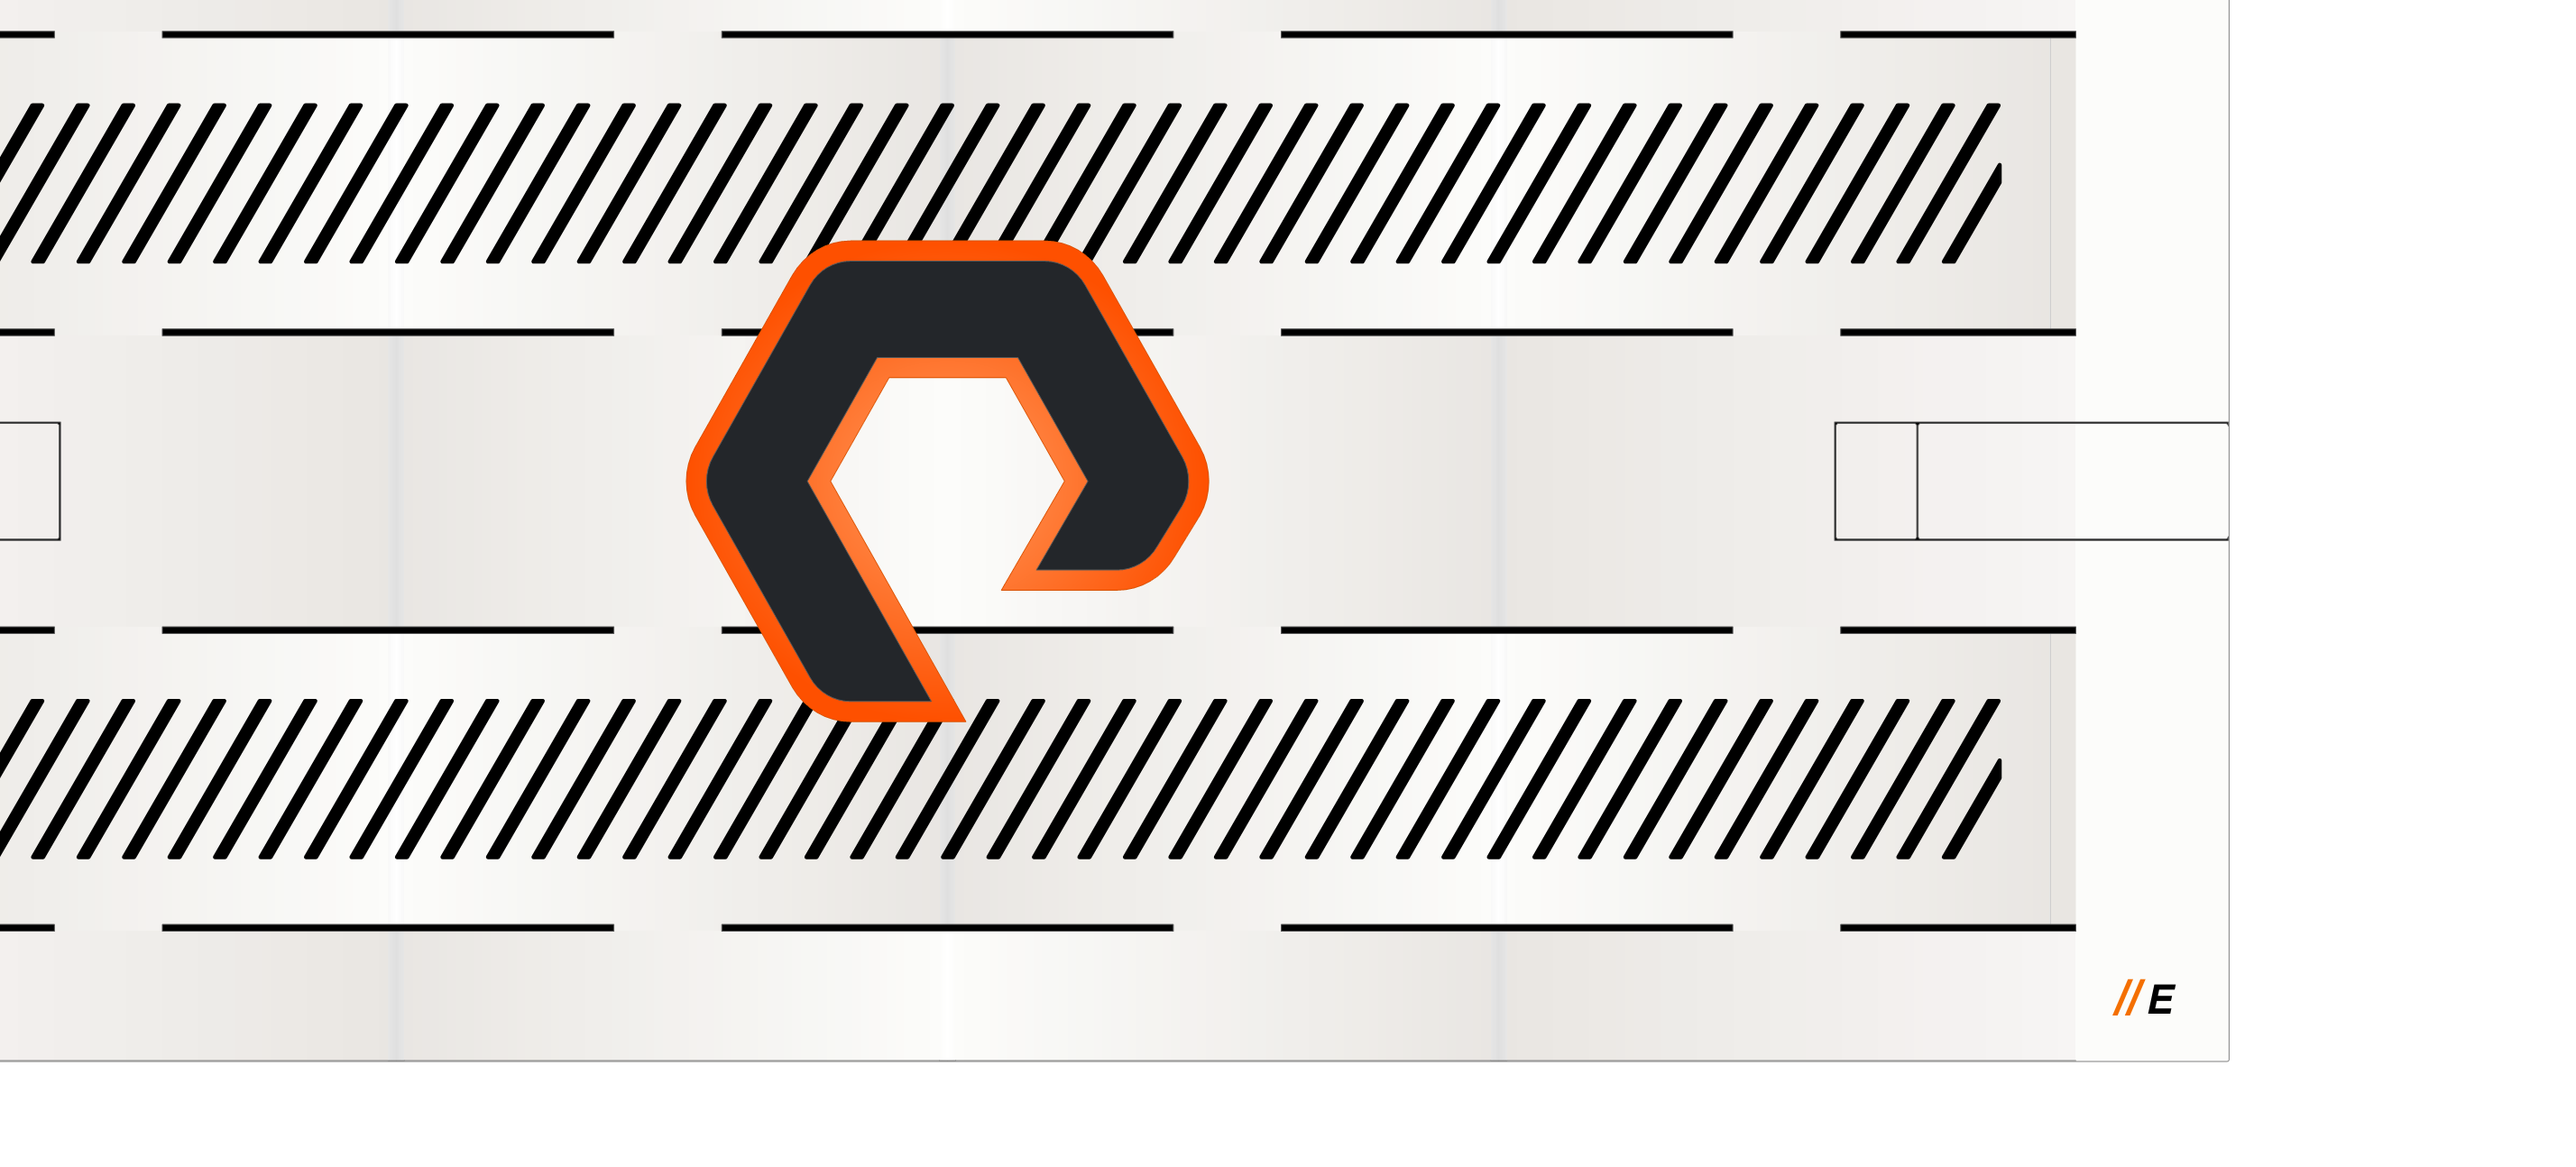
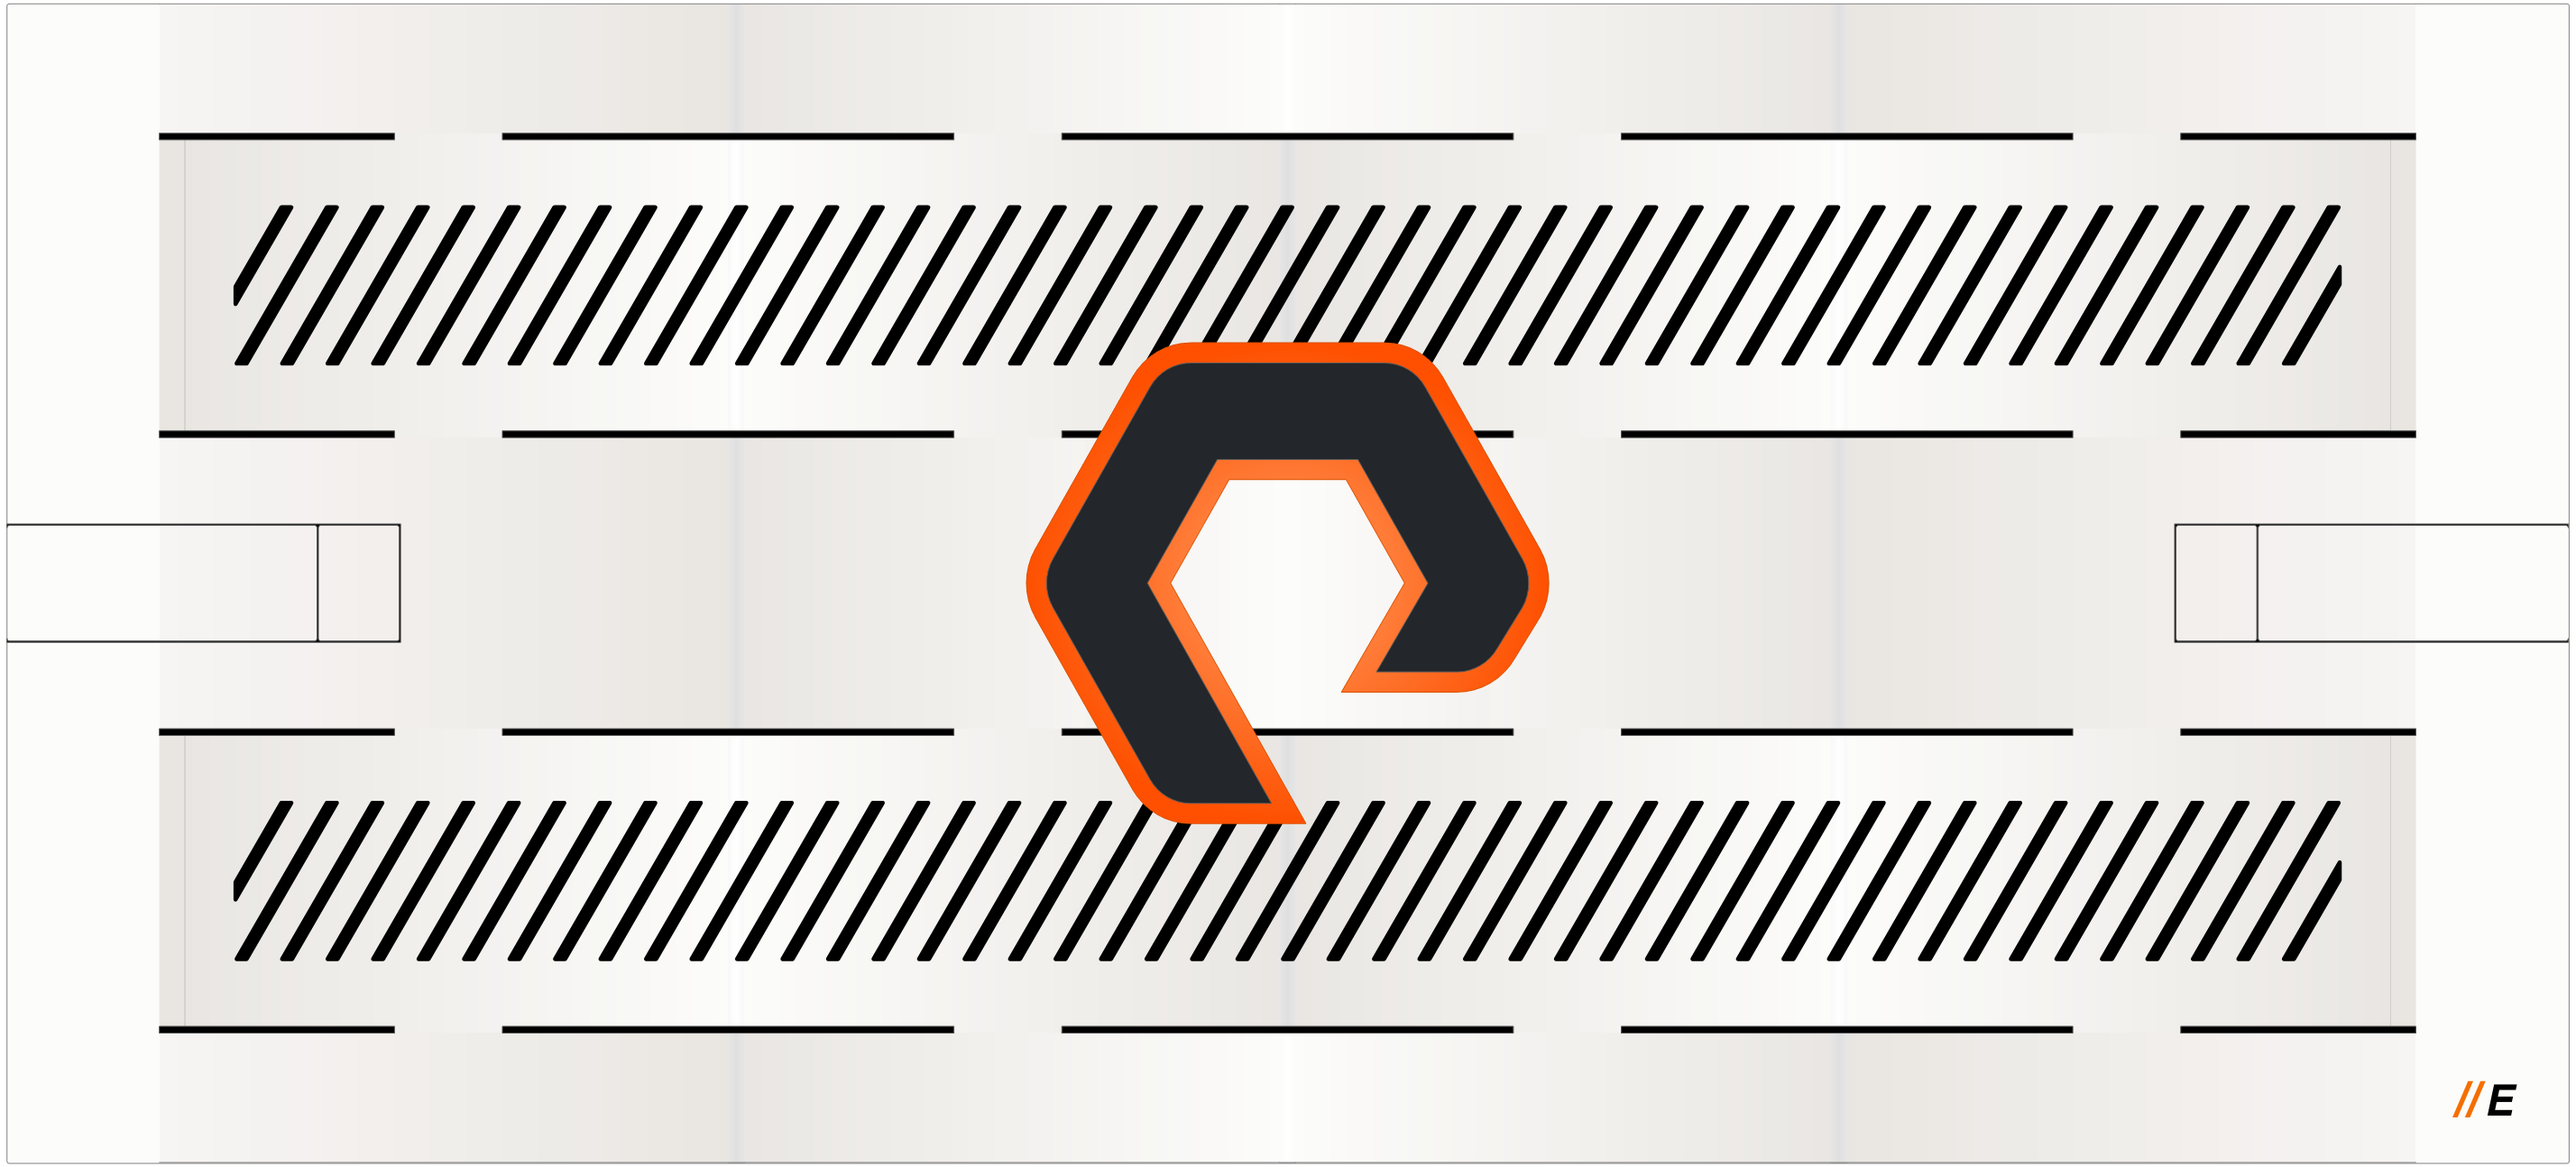
fixed a couple issues with the back image.

diff --git a/ui/purerackdiagram.js b/ui/purerackdiagram.js
@@ -11,7 +11,7 @@ const customSchema = jsyaml.DEFAULT_SCHEMA.extend([pythonTupleType]);
 $(function () {
   console.log("ready!");
 
-  fetch("../purerackdiagram/config.yaml")
+  fetch("config.yaml")
   .then((response) => response.text())
   .then((yamlText) => {
 
@@ -218,6 +218,7 @@ $(function () {
   var fb_option_efm = build_select('#fb_option_efm', FB_OPTIONS.efm);
   var fb_option_ports = build_select('#fb_option_ports', FB_OPTIONS.ports);
   var fb_option_xfm_face = build_select('#fb_option_xfm_face', FB_OPTIONS.xfm_face);
+  var fb_option_bezel = build_select('#fb_option_bezel', FB_OPTIONS.bezel);
 
   var fbs_option_model = build_select('#fbs_option_model', FBS_OPTIONS.model);
   var fbs_option_dfm_size = build_select('#fbs_option_dfm_size', FBS_OPTIONS.dfm_size);
@@ -228,6 +229,7 @@ $(function () {
   var fbs_option_blades = build_input('#fbs_option_blades', FBS_OPTIONS.blades);
   var fbs_option_ports = build_select('#fbs_option_ports', FBS_OPTIONS.ports);
   var fbs_option_xfm_face = build_select('#fbs_option_xfm_face', FBS_OPTIONS.xfm_face);
+  var fbs_option_bezel = build_select('#fbs_option_bezel', FBS_OPTIONS.bezel);
 
 
 
@@ -280,6 +282,7 @@ $(function () {
     url += "&blades=" + fb_option_blades.val();
     url += "&efm=" + fb_option_efm.val();
     url += "&xfm_face=" + fb_option_xfm_face.val();
+    url += "&bezel=" + fb_option_bezel.val();
 
     var ports_val = fb_option_ports.val();
     if (ports_val){
@@ -301,6 +304,7 @@ $(function () {
     url += "&no_of_drives_per_blade=" + fbs_option_dfm_count.val();
     url += "&drive_size=" + fbs_option_dfm_size.val();
     url += "&xfm_face=" + fbs_option_xfm_face.val();
+    url += "&bezel=" + fbs_option_bezel.val();
  
     
     fbs_option_dfm_size
@@ -393,9 +397,9 @@ $(function () {
 
   $("#fa_option_face > select").change(function () {
     if (fa_option_face.val() == 'front') {
-      $('#fm_label').show();
-      $('#dp_label').show();
-      $('#bezel').show();
+      $('#fa_fm_label').show();
+      $('#fa_dp_label').show();
+      $('#fa_bezel').show();
 
       $('#mezz').hide();
       $('#ports').hide();
@@ -405,9 +409,9 @@ $(function () {
       $('#pci_dropdowns').hide();
     }
     else {
-      $('#fm_label').hide();
-      $('#dp_label').hide();
-      $('#bezel').hide();
+      $('#fa_fm_label').hide();
+      $('#fa_dp_label').hide();
+      $('#fa_bezel').hide();
       
       $('#protocol').show();
       $('#addoncards').show();

diff --git a/ui/index.html b/ui/index.html
@@ -96,14 +96,14 @@ Select the options, then click the Display button at the bottom to load the imag
             <br/>
           </div>
 
-          <div class="row" id="fm_label">
+          <div class="row" id="fa_fm_label">
             <div class="col-xs-4 col-sm-4 option_label">fm_label:</div>
             <div class="col-xs-8 col-sm-8"><span data-tooltip="add a label for each FlashModule" id="fa_option_fm_label"></span></div>
             <br/>
             <br/>
           </div>
 
-          <div class="row" id="dp_label">
+          <div class="row" id="fa_dp_label">
             <div class="col-xs-4 col-sm-4 option_label">dp_label:</div>
             <div class="col-xs-8 col-sm-8"><span data-tooltip="add a label for each data pack" id="fa_option_dp_label"></span></div>
             <br/>
@@ -111,7 +111,7 @@ Select the options, then click the Display button at the bottom to load the imag
           </div>
 
           
-          <div class="row" id="bezel">
+          <div class="row" id="fa_bezel">
             <div class="col-xs-4 col-sm-4 option_label">bezel:</div>
             <div class="col-xs-8 col-sm-8"><span data-tooltip="show bezel" id="fa_option_bezel"></span></div>
             <br/>
@@ -267,7 +267,6 @@ Select the options, then click the Display button at the bottom to load the imag
             <div class="col-xs-4 col-sm-4 option_label">efm_model:</div>
             <div class="col-xs-8 col-sm-8"><span id="fb_option_efm"></span></div>
             <br/>
-            <br/>
           </div>
           <br/>
 
@@ -317,6 +316,13 @@ Select the options, then click the Display button at the bottom to load the imag
           <div class="row">
             <div class="col-xs-4 col-sm-4 option_label">face:</div>
             <div class="col-xs-8 col-sm-8"><span id="fbs_option_face"></span></div>
+            <br/>
+            <br/>
+          </div>
+
+          <div class="row">
+            <div class="col-xs-4 col-sm-4 option_label">bezel:</div>
+            <div class="col-xs-8 col-sm-8"><span data-tooltip="show bezel" id="fbs_option_bezel"></span></div>
             <br/>
             <br/>
           </div>

diff --git a/ui/CONFIG.js b/ui/CONFIG.js
@@ -6,7 +6,7 @@ API_ENDPOINT = "https://61fuj0h54e.execute-api.us-east-1.amazonaws.com/default/r
 //
 var FA_OPTIONS = {
     model: ['fa-x20r4', 'fa-x50r4', 'fa-x70r4', 'fa-x90r4',
-            'fa-c50r3', 'fa-c60r3',
+            'fa-c50r4', 'fa-c70r4', 'fa-c90r4',
             'fa-x10r3', 'fa-x20r3', 'fa-x50r3', 'fa-x70r3', 'fa-x90r3',
             'fa-xl130', 'fa-xl170',
             'fa-x10r2', 'fa-x20r2', 'fa-x50r2', 'fa-x70r2', 'fa-x90r2',
@@ -41,7 +41,8 @@ var FB_OPTIONS = {
     blades: '17:0-14,52:15-129',
     efm: ['', 'efm110', 'efm310'],
     ports: ['FALSE', 'TRUE'],
-    xfm_face: ['', 'front', 'back']
+    xfm_face: ['', 'front', 'back'],
+    bezel: ['FALSE', 'TRUE']
 };
 
 var FBS_OPTIONS = {
@@ -53,5 +54,6 @@ var FBS_OPTIONS = {
     ports: ['FALSE', 'TRUE'],
     dfm_size: ['24', '48'],
     dfm_count: ['1', '2', '3', '4'],
-    xfm_face: ['', 'front', 'back']
+    xfm_face: ['', 'front', 'back'],
+    bezel: ['FALSE', 'TRUE']
 };

diff --git a/test.py b/test.py
@@ -24,6 +24,19 @@ save_dir = 'test_results/'
 
 
 more_tests = [
+    {
+        "queryStringParameters": {
+            "model": "fa-x50r4",
+            "datapacks": "63/0",
+            "protocol": "FC",
+            "addoncards": "",
+            "face": "back",
+            "fm_label": "True",
+            "dp_label": "True",
+            "local_delay": 0,
+            "ports": "True"
+        }
+    },
         {
         "queryStringParameters": {
             "model": "fb-e",
